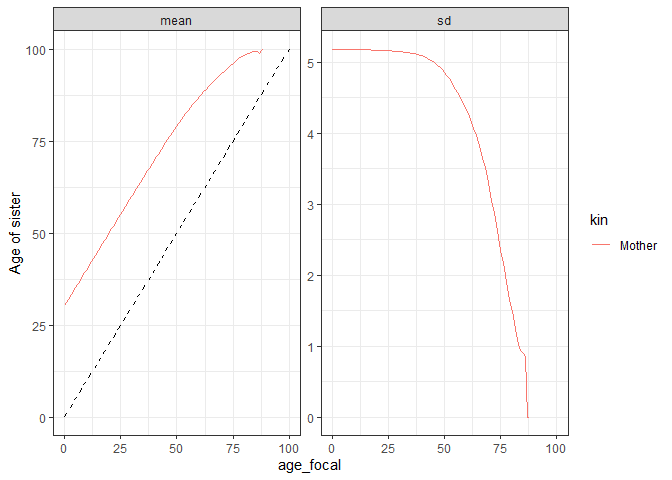
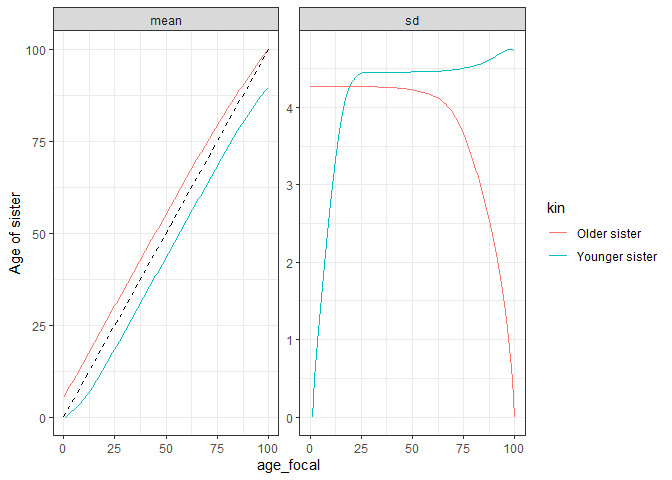
fixed exercise

diff --git a/README.md b/README.md
@@ -597,7 +597,7 @@ library(tidyr)
 swe_surv_x <- DemoKin::swe_px[,"2010"]
 swe_asfr_x <- DemoKin::swe_asfr[,"2010"]
 # Run kinship models
-swe_x <- kin(U = swe_surv_x, f = swe_asfr_x, time_invariant = TRUE, output_kin = "m")
+swe_x <- kin(U = swe_surv_x, f = swe_asfr_x, time_invariant = TRUE, output_kin = c("os", "ys"))
 
 # For plotting
 dummy <- data.frame(
@@ -629,7 +629,7 @@ swe_x$kin_full %>%
     ## `summarise()` has grouped output by 'age_focal'. You can override using the
     ## `.groups` argument.
 
-    ## Warning: Removed 12 row(s) containing missing values (geom_path).
+    ## Warning: Removed 1 row(s) containing missing values (geom_path).
 
 ![](README_files/figure-gfm/unnamed-chunk-25-1.png)<!-- -->
 
@@ -653,8 +653,6 @@ swe_x$kin_full %>%
   labs(y = "Age of sister") +
   theme_bw()
 ```
-
-    ## Warning: Removed 12 row(s) containing missing values (geom_path).
 
 ![](README_files/figure-gfm/unnamed-chunk-26-1.png)<!-- -->
 
